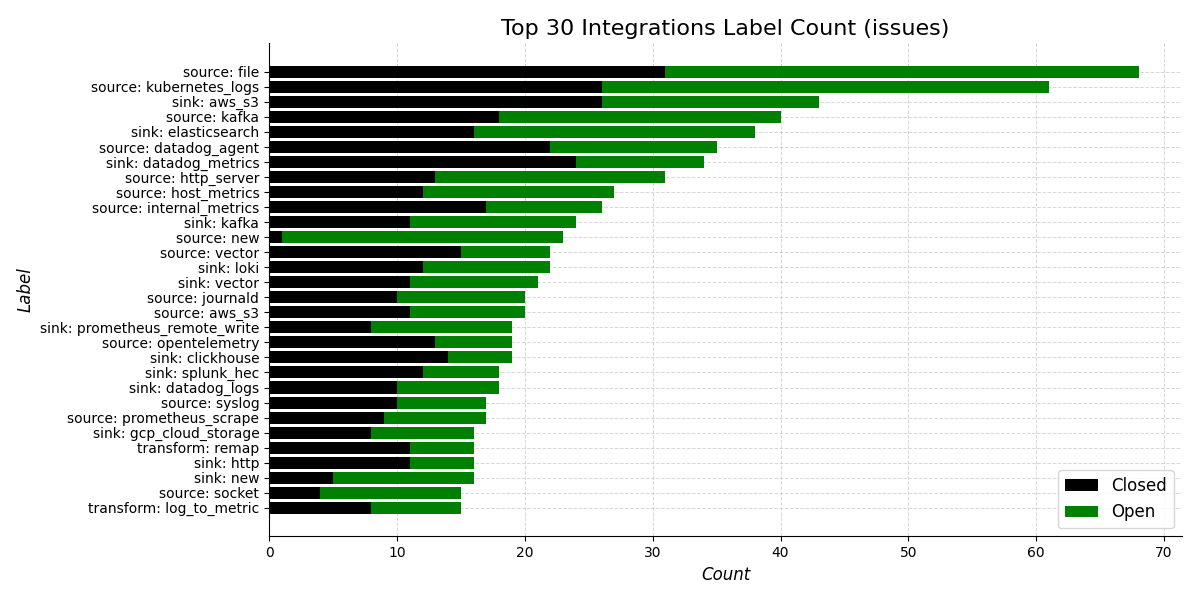
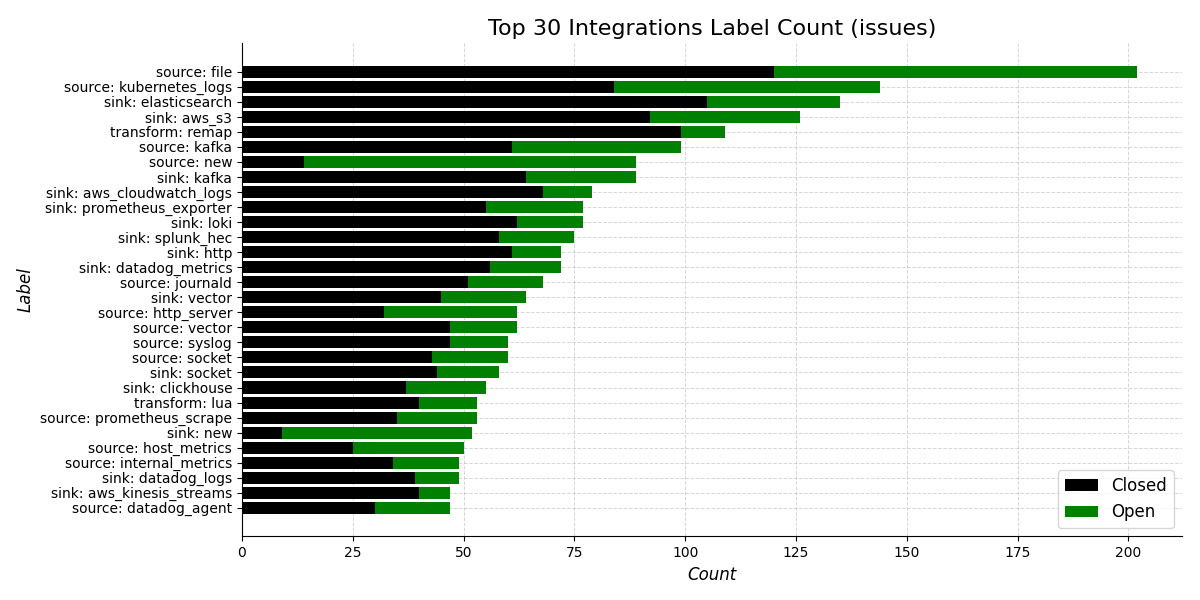
Gate integration charts to vectordotdev/vector; fix open_by_label path bug
Two related plot.py fixes:

1. plot_label_state_counts had a doubled os.path.join in main() — the
   existence check produced "out/summaries/out/summaries/..." which
   never resolved, so the function never ran. Drop the inner join.
   The committed open_closed_total_label_count.png files for vector
   were stale snapshots from a much earlier code path; this commit
   refreshes them.

2. plot_integration_trends and plot_label_state_counts both filter on
   source:/transform:/sink: label prefixes that only exist in
   vectordotdev/vector. Gate both calls behind an is_vector check in
   main() instead of relying on the inner functions to read the CSV
   and silently early-return. Faster, and stops the "No label count
   columns found" log noise on every non-vector run.

diff --git a/scripts/util/plot.py b/scripts/util/plot.py
@@ -117,6 +117,10 @@ def main():
         print(f"Error loading environment variables: {e}")
         return 1
 
+    # source:/transform:/sink: label prefixes only exist in vectordotdev/vector;
+    # skip integration-specific charts for every other repo.
+    is_vector = env['REPO_OWNER'] == 'vectordotdev' and env['REPO_NAME'] == 'vector'
+
     table_names = ["issues", "pull_requests"]
     for table in table_names:
         prefix = f"{env['REPO_OWNER']}_{env['REPO_NAME']}_{table}"
@@ -125,14 +129,15 @@ def main():
             output_path = os.path.join(OUTPUT_DIR, f"{prefix}.monthly_trend.png")
             plot_monthly_summary_basic(monthly_csv, table, output_path, start_date=args.start)
 
-            n = 5
-            output_path = os.path.join(OUTPUT_DIR, f"{prefix}.integrations.top_{n}.monthly_trend.png")
-            plot_integration_trends(monthly_csv,
-                                    table,
-                                    output_path,
-                                    top_n=n,
-                                    start_date=args.start,
-                                    exclude_labels=args.exclude_labels)
+            if is_vector:
+                n = 5
+                output_path = os.path.join(OUTPUT_DIR, f"{prefix}.integrations.top_{n}.monthly_trend.png")
+                plot_integration_trends(monthly_csv,
+                                        table,
+                                        output_path,
+                                        top_n=n,
+                                        start_date=args.start,
+                                        exclude_labels=args.exclude_labels)
 
         label_breakdown_csv = os.path.join(args.input_dir, f"{prefix}.label_breakdown.csv")
         if os.path.exists(label_breakdown_csv):
@@ -156,16 +161,17 @@ def main():
                 exclude_labels=args.exclude_labels
             )
 
-        open_by_label_csv = os.path.join(args.input_dir, f"{prefix}.open_by_label.csv")
-        if os.path.exists(os.path.join(args.input_dir, open_by_label_csv)):
-            output_path = os.path.join(OUTPUT_DIR, f"{prefix}.open_closed_total_label_count.png")
-            plot_label_state_counts(
-                open_by_label_csv,
-                table,
-                output_path,
-                top_n=30,
-                exclude_labels=args.exclude_labels
-            )
+        if is_vector:
+            open_by_label_csv = os.path.join(args.input_dir, f"{prefix}.open_by_label.csv")
+            if os.path.exists(open_by_label_csv):
+                output_path = os.path.join(OUTPUT_DIR, f"{prefix}.open_closed_total_label_count.png")
+                plot_label_state_counts(
+                    open_by_label_csv,
+                    table,
+                    output_path,
+                    top_n=30,
+                    exclude_labels=args.exclude_labels
+                )
 
         contributor_csv = os.path.join(args.input_dir, f"{prefix}.contributor_monthly.csv")
         if os.path.exists(contributor_csv):
